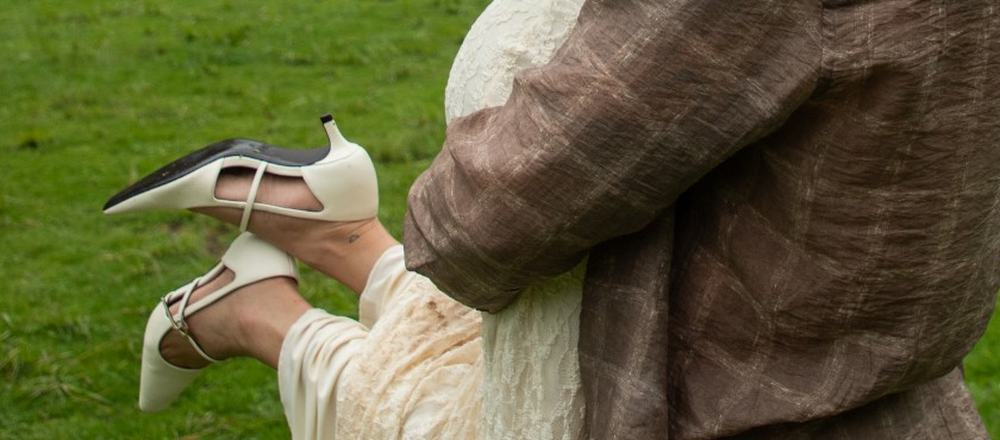
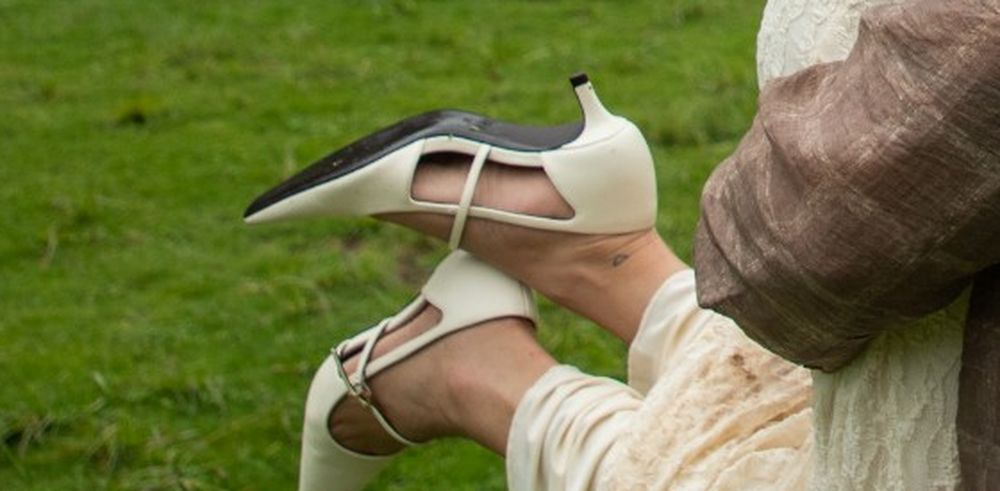
Previa: banda del dress code enfocada en los tacones
Claude-Session: https://claude.ai/code/session_017Bu4VZuvpVZPGBgM6bGg4M

diff --git a/index.html b/index.html
@@ -549,7 +549,7 @@ h2{font-family:var(--mano);font-weight:600;font-size:clamp(32px,9vw,44px);color:
 
   <!-- VESTIMENTA -->
   <section class="bloque" id="vestimenta">
-    <div class="banda-foto rev" style="--foto:url(foto-d-zapatos.jpg);--pos:30% 55%"><div><h2>Código de vestimenta</h2><p class="sub rotulo">Civil y fiesta<br>Domingo 28</p></div></div>
+    <div class="banda-foto rev" style="--foto:url(foto-d-zapatos.jpg);--pos:40% 50%"><div><h2>Código de vestimenta</h2><p class="sub rotulo">Civil y fiesta<br>Domingo 28</p></div></div>
     <p class="sub rotulo rev formal">Formal y de color</p>
     <p class="intro rev">Queremos una boda llena de color, como nosotros. Estas son ideas para inspirarte; lo que de verdad nos importa es que estés.</p>
 
